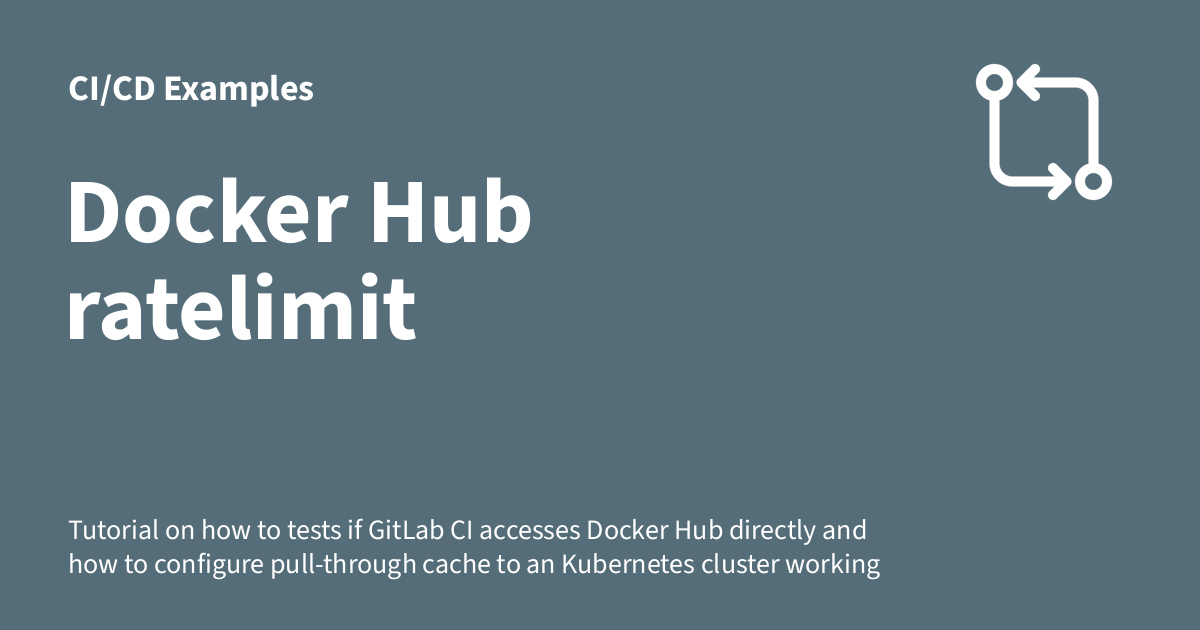
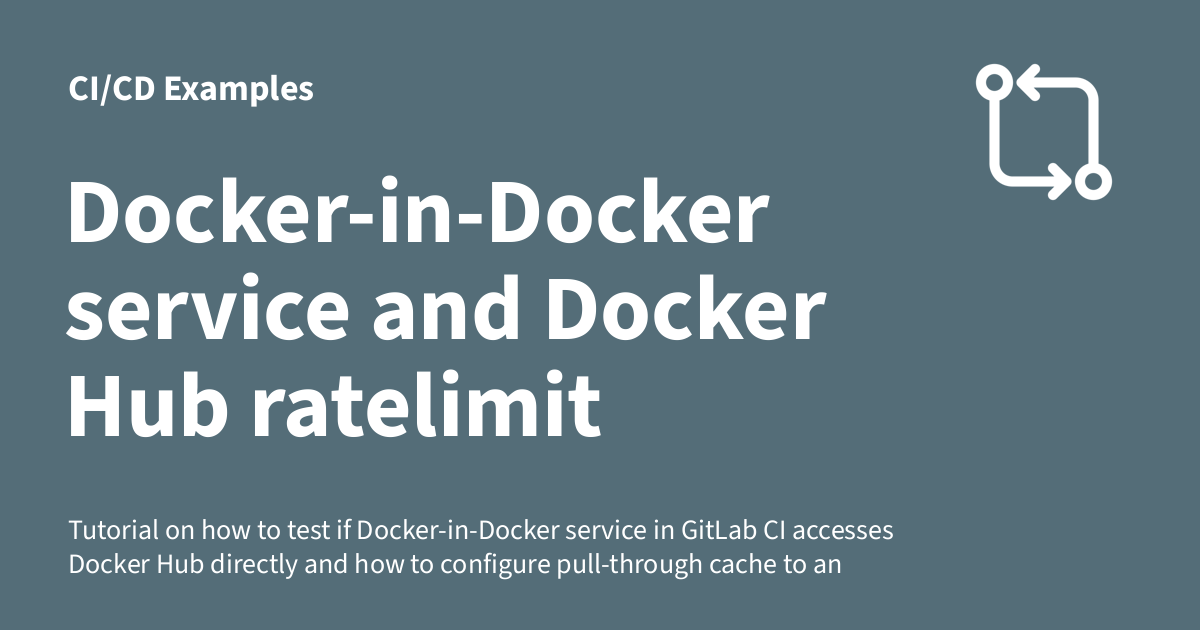
Deploying to gh-pages from  @ 2926b463042d7090bda5c69a8c9473ce861a0606 🚀

diff --git a/examples/gitlab-ci/docker-hub-ratelimit/index.html b/examples/gitlab-ci/docker-hub-ratelimit/index.html
@@ -6,7 +6,7 @@
       <meta charset="utf-8">
       <meta name="viewport" content="width=device-width,initial-scale=1">
       
-        <meta name="description" content="Tutorial on how to tests if GitLab CI accesses Docker Hub directly and how to configure pull-through cache to an Kubernetes cluster working as a GitLab runner.">
+        <meta name="description" content="Tutorial on how to test if Docker-in-Docker service in GitLab CI accesses Docker Hub directly and how to configure pull-through cache to an Kubernetes cluster working as a GitLab runner.">
       
       
       
@@ -24,7 +24,7 @@
     
     
       
-        <title>Docker Hub ratelimit - CI/CD Examples</title>
+        <title>Docker-in-Docker service and Docker Hub ratelimit - CI/CD Examples</title>
       
     
     
@@ -61,9 +61,9 @@
       
         <meta  property="og:type"  content="website" >
       
-        <meta  property="og:title"  content="Docker Hub ratelimit - CI/CD Examples" >
+        <meta  property="og:title"  content="Docker-in-Docker service and Docker Hub ratelimit - CI/CD Examples" >
       
-        <meta  property="og:description"  content="Tutorial on how to tests if GitLab CI accesses Docker Hub directly and how to configure pull-through cache to an Kubernetes cluster working as a GitLab runner." >
+        <meta  property="og:description"  content="Tutorial on how to test if Docker-in-Docker service in GitLab CI accesses Docker Hub directly and how to configure pull-through cache to an Kubernetes cluster working as a GitLab runner." >
       
         <meta  property="og:image"  content="https://kangasta.github.io/cicd-examples/assets/images/social/examples/gitlab-ci/docker-hub-ratelimit/README.png" >
       
@@ -77,9 +77,9 @@
       
         <meta  name="twitter:card"  content="summary_large_image" >
       
-        <meta  name="twitter:title"  content="Docker Hub ratelimit - CI/CD Examples" >
+        <meta  name="twitter:title"  content="Docker-in-Docker service and Docker Hub ratelimit - CI/CD Examples" >
       
-        <meta  name="twitter:description"  content="Tutorial on how to tests if GitLab CI accesses Docker Hub directly and how to configure pull-through cache to an Kubernetes cluster working as a GitLab runner." >
+        <meta  name="twitter:description"  content="Tutorial on how to test if Docker-in-Docker service in GitLab CI accesses Docker Hub directly and how to configure pull-through cache to an Kubernetes cluster working as a GitLab runner." >
       
         <meta  name="twitter:image"  content="https://kangasta.github.io/cicd-examples/assets/images/social/examples/gitlab-ci/docker-hub-ratelimit/README.png" >
       
@@ -104,7 +104,7 @@
     <div data-md-component="skip">
       
         
-        <a href="#docker-hub-ratelimit" class="md-skip">
+        <a href="#docker-in-docker-service-and-docker-hub-ratelimit" class="md-skip">
           Skip to content
         </a>
       
@@ -151,7 +151,7 @@
         <div class="md-header__topic" data-md-component="header-topic">
           <span class="md-ellipsis">
             
-              Docker Hub ratelimit
+              Docker-in-Docker service and Docker Hub ratelimit
             
           </span>
         </div>
@@ -448,7 +448,7 @@
           
   
   <span class="md-ellipsis">
-    Docker Hub ratelimit
+    Docker-in-Docker service and Docker Hub ratelimit
   </span>
   
 
@@ -459,7 +459,7 @@
         
   
   <span class="md-ellipsis">
-    Docker Hub ratelimit
+    Docker-in-Docker service and Docker Hub ratelimit
   </span>
   
 
@@ -741,7 +741,7 @@
   
 
 
-<h1 id="docker-hub-ratelimit">Docker Hub ratelimit</h1>
+<h1 id="docker-in-docker-service-and-docker-hub-ratelimit">Docker-in-Docker service and Docker Hub ratelimit</h1>
 <p>The recommended way of running Docker commands in a GitLab CI Kubernets runner is to use a service to run Docker-in-Docker container (<code>docker:dind</code>). By default the <code>docker:dind</code> container pulls container images from Docker Hub without caching. This can cause problems as pulls from Docker Hub are rate-limited.</p>
 <p>This example tests how <code>docker pull ubuntu:24.04</code> commands consume Docker Hub ratelimit and provides example on how to configure pull-through cache to an Kubernetes cluster working as a GitLab runner.</p>
 <h2 id="how-to-check-if-docker-pull-commands-are-cached">How to check if <code>docker pull</code> commands are cached</h2>
@@ -836,7 +836,7 @@
     <span class="md-icon" title="Last update">
       <svg xmlns="http://www.w3.org/2000/svg" viewBox="0 0 24 24"><path d="M21 13.1c-.1 0-.3.1-.4.2l-1 1 2.1 2.1 1-1c.2-.2.2-.6 0-.8l-1.3-1.3c-.1-.1-.2-.2-.4-.2m-1.9 1.8-6.1 6V23h2.1l6.1-6.1zM12.5 7v5.2l4 2.4-1 1L11 13V7zM11 21.9c-5.1-.5-9-4.8-9-9.9C2 6.5 6.5 2 12 2c5.3 0 9.6 4.1 10 9.3-.3-.1-.6-.2-1-.2s-.7.1-1 .2C19.6 7.2 16.2 4 12 4c-4.4 0-8 3.6-8 8 0 4.1 3.1 7.5 7.1 7.9l-.1.2z"/></svg>
     </span>
-    <span class="git-revision-date-localized-plugin git-revision-date-localized-plugin-date">October 13, 2024</span>
+    <span class="git-revision-date-localized-plugin git-revision-date-localized-plugin-date">October 14, 2024</span>
   </span>
 
     

diff --git a/404.html b/404.html
@@ -400,7 +400,7 @@
         
   
   <span class="md-ellipsis">
-    Docker Hub ratelimit
+    Docker-in-Docker service and Docker Hub ratelimit
   </span>
   
 

diff --git a/assets/index.html b/assets/index.html
@@ -433,7 +433,7 @@
         
   
   <span class="md-ellipsis">
-    Docker Hub ratelimit
+    Docker-in-Docker service and Docker Hub ratelimit
   </span>
   
 

diff --git a/examples/docker/docker-on-wsl/index.html b/examples/docker/docker-on-wsl/index.html
@@ -533,7 +533,7 @@
         
   
   <span class="md-ellipsis">
-    Docker Hub ratelimit
+    Docker-in-Docker service and Docker Hub ratelimit
   </span>
   
 

diff --git a/examples/jenkins/ansible-kubernetes/index.html b/examples/jenkins/ansible-kubernetes/index.html
@@ -437,7 +437,7 @@
         
   
   <span class="md-ellipsis">
-    Docker Hub ratelimit
+    Docker-in-Docker service and Docker Hub ratelimit
   </span>
   
 

diff --git a/examples/jenkins/build-status-pipelines/index.html b/examples/jenkins/build-status-pipelines/index.html
@@ -437,7 +437,7 @@
         
   
   <span class="md-ellipsis">
-    Docker Hub ratelimit
+    Docker-in-Docker service and Docker Hub ratelimit
   </span>
   
 

diff --git a/examples/jenkins/jenkins-host-docker/index.html b/examples/jenkins/jenkins-host-docker/index.html
@@ -437,7 +437,7 @@
         
   
   <span class="md-ellipsis">
-    Docker Hub ratelimit
+    Docker-in-Docker service and Docker Hub ratelimit
   </span>
   
 

diff --git a/examples/jenkins/parallel-robot-pipeline/index.html b/examples/jenkins/parallel-robot-pipeline/index.html
@@ -437,7 +437,7 @@
         
   
   <span class="md-ellipsis">
-    Docker Hub ratelimit
+    Docker-in-Docker service and Docker Hub ratelimit
   </span>
   
 

diff --git a/examples/jenkins/sonarqube-jenkins/index.html b/examples/jenkins/sonarqube-jenkins/index.html
@@ -435,7 +435,7 @@
         
   
   <span class="md-ellipsis">
-    Docker Hub ratelimit
+    Docker-in-Docker service and Docker Hub ratelimit
   </span>
   
 

diff --git a/index.html b/index.html
@@ -517,7 +517,7 @@
         
   
   <span class="md-ellipsis">
-    Docker Hub ratelimit
+    Docker-in-Docker service and Docker Hub ratelimit
   </span>
   
 
